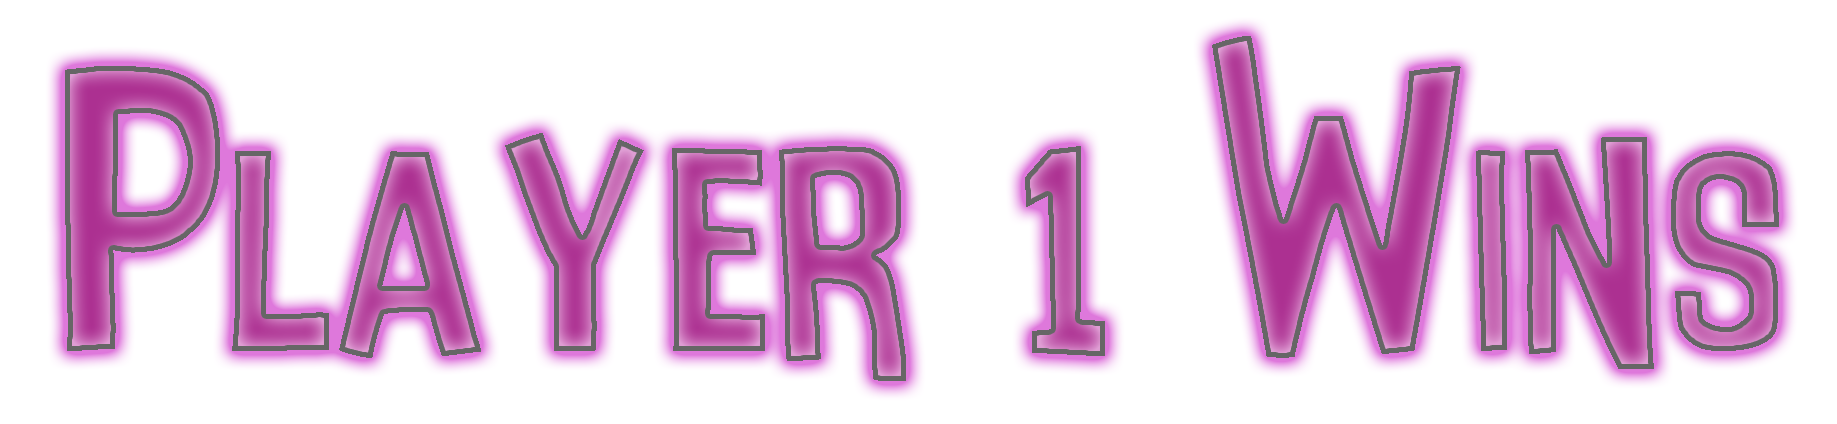
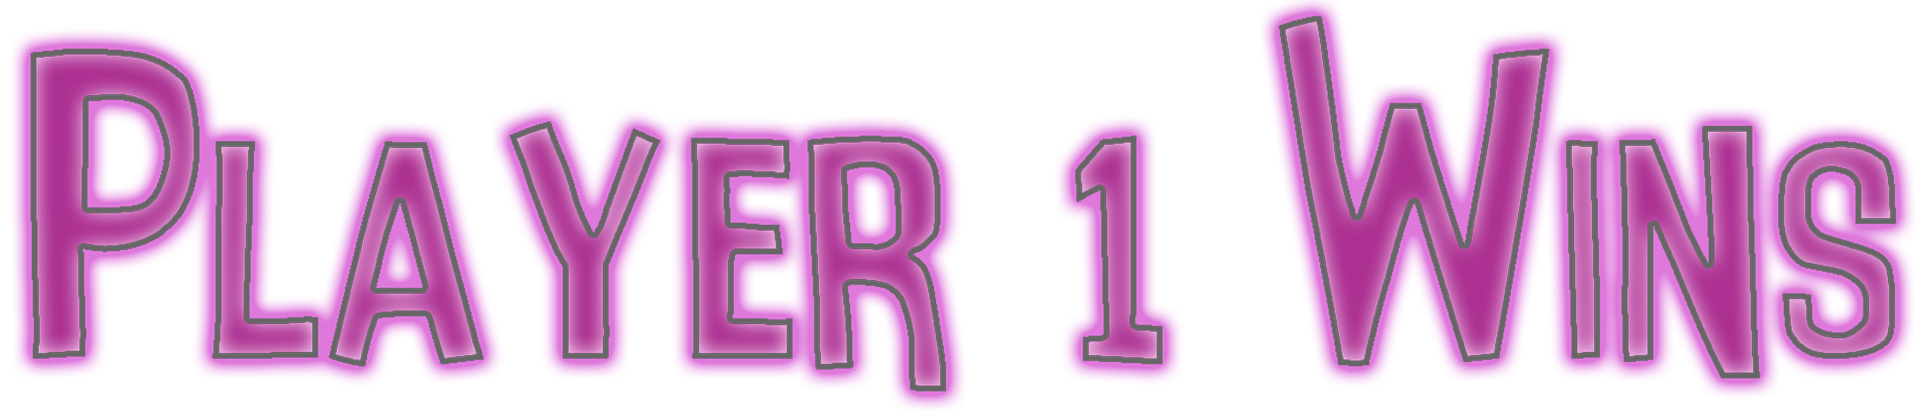
Match Status Sprites
Sprites have been added and linked to the script but there is an issue
with waitForSeconds as well as image.sprite.

diff --git a/Assets/matchStatusText.cs b/Assets/matchStatusText.cs
@@ -1,0 +1,53 @@
+using UnityEngine;
+using UnityEngine.UI;
+using System.Collections;
+
+public class matchStatusText : MonoBehaviour {
+
+    [SerializeField] Sprite matchStart;
+    [SerializeField] Sprite pOneWin;
+    [SerializeField] Sprite pTwoWin;
+    [SerializeField] GameObject player1;
+    [SerializeField] GameObject player2;
+
+    private bool matchIsStarting = true;
+
+    Image image;
+
+	// Use this for initialization
+	void Start () {
+
+        //image.sprite = null;
+	
+	}
+	
+	// Update is called once per frame
+	void Update () {
+
+        //Debug.Log(Time.time);
+
+        if(matchIsStarting == true)
+        {
+            //image.sprite = matchStart;
+            StartCoroutine(removeSprite());
+            //image.sprite = pTwoWin;
+            Debug.Log("Is this happening");
+            
+        }
+
+        if(player1.GetComponent<playerMovement>().getHp() == 0)
+        {
+            image.sprite = pTwoWin;
+        }
+        else if(player2.GetComponent<playerMovement>().getHp() == 0)
+        {
+            image.sprite = pOneWin;
+        }
+	}
+
+    IEnumerator removeSprite()
+    {
+        yield return new WaitForSeconds(1);
+        Debug.Log("Is this running?");
+    }
+}
